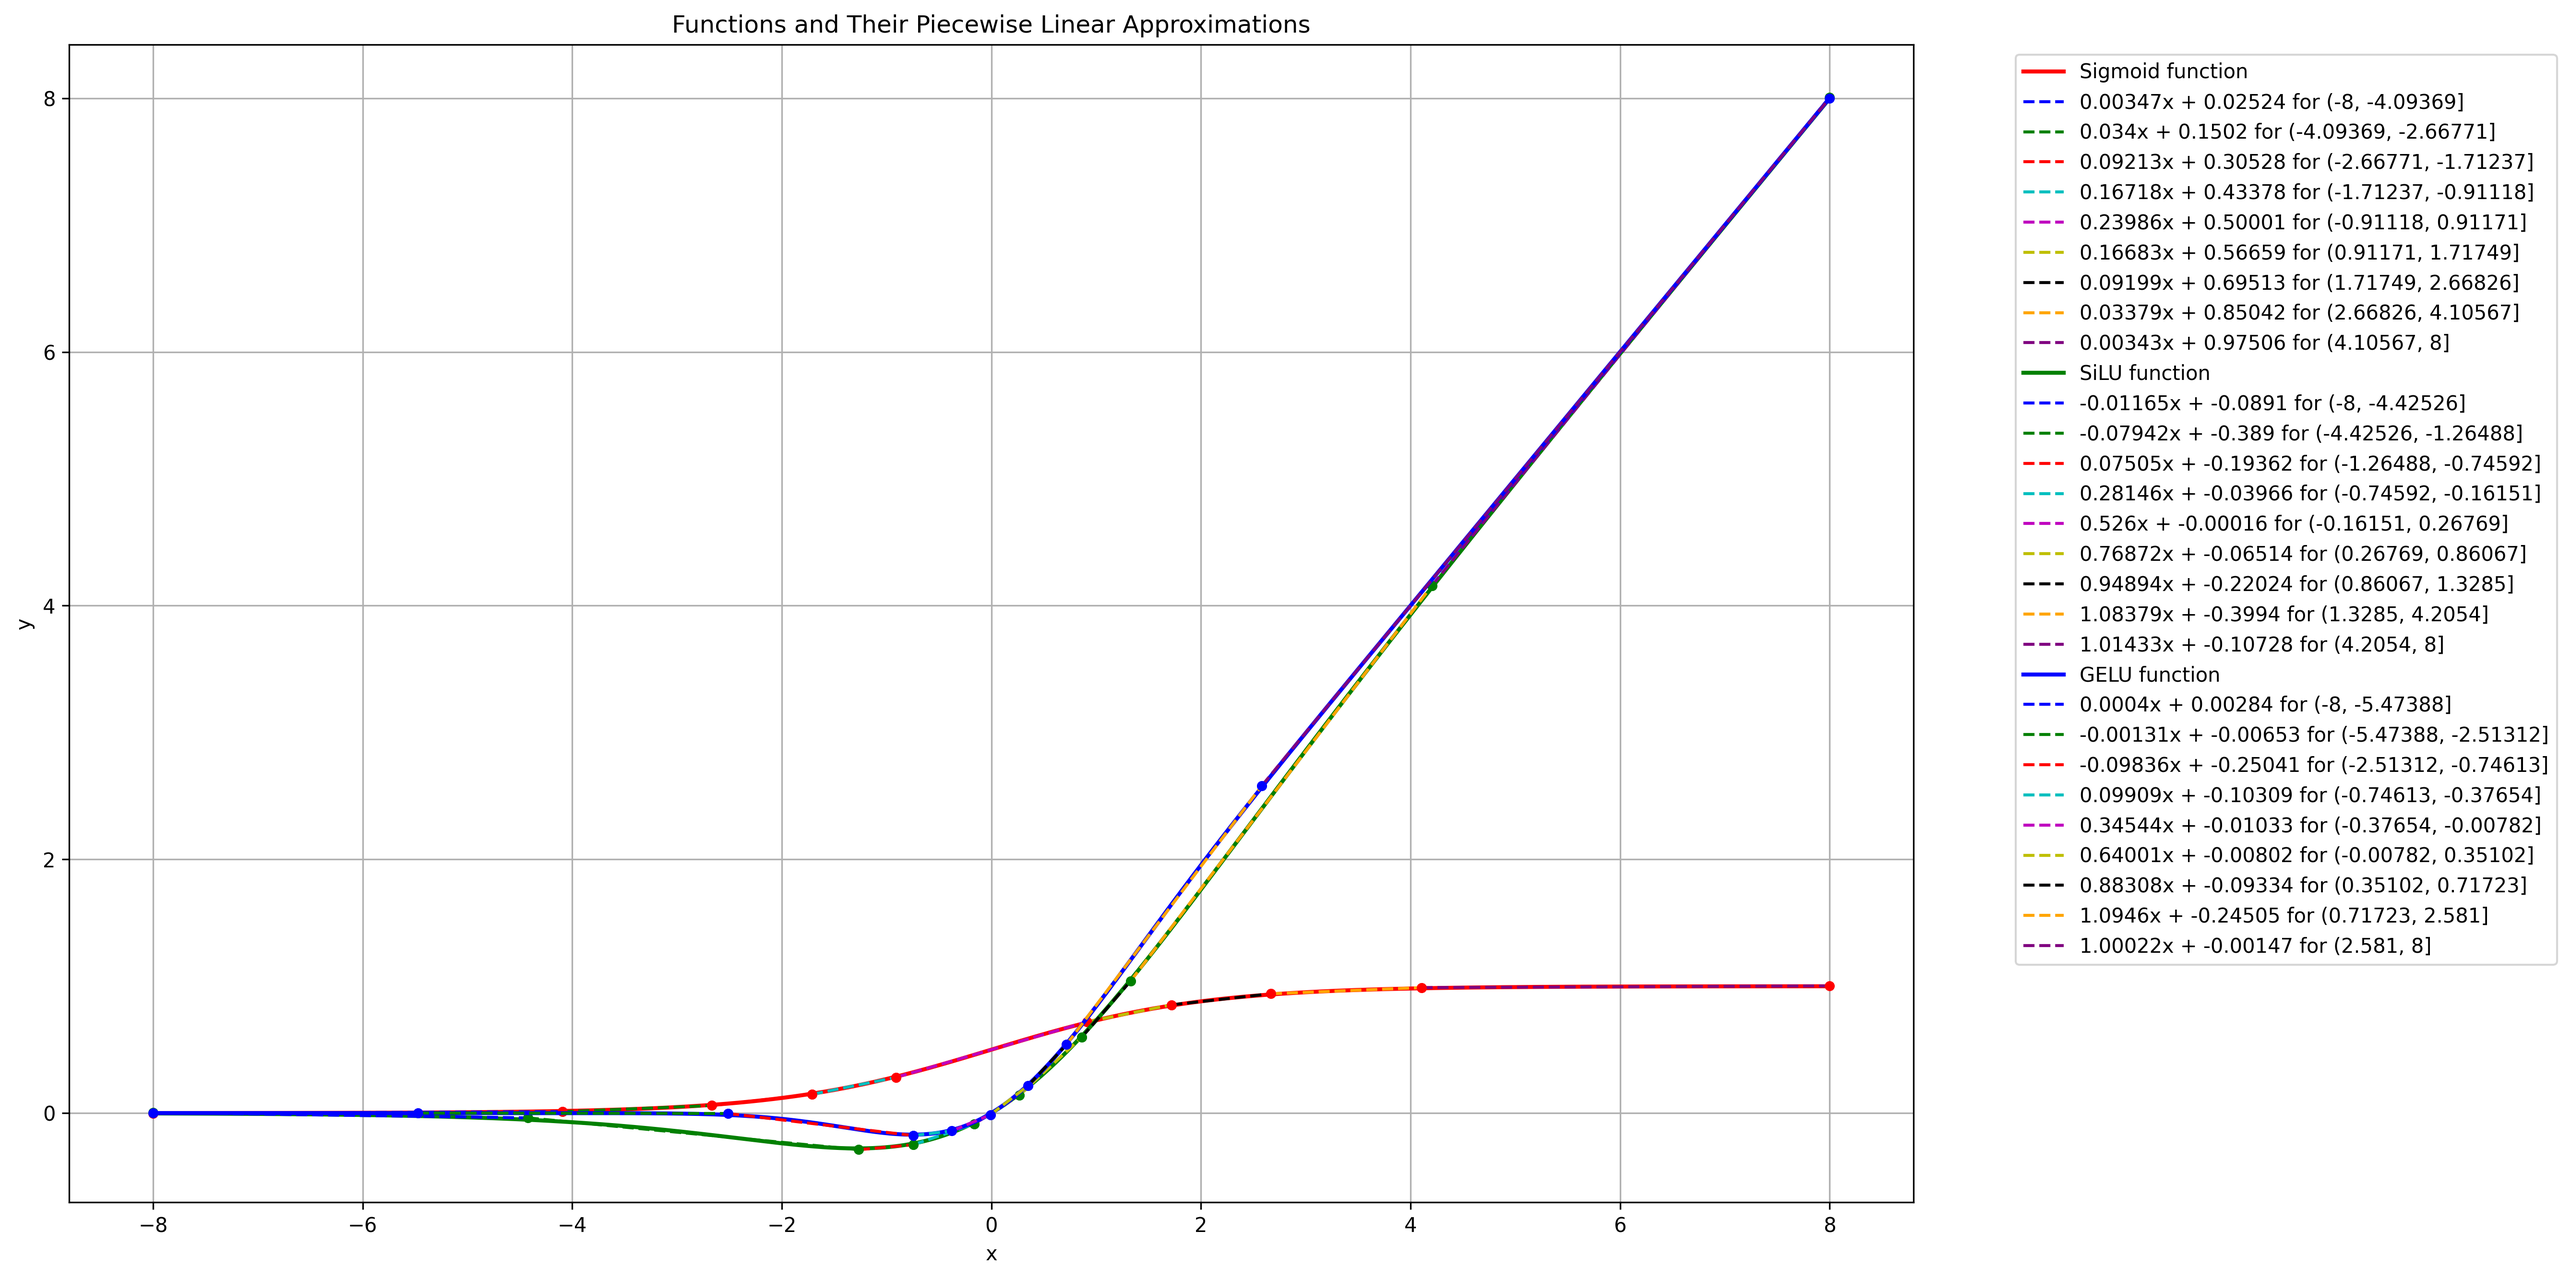
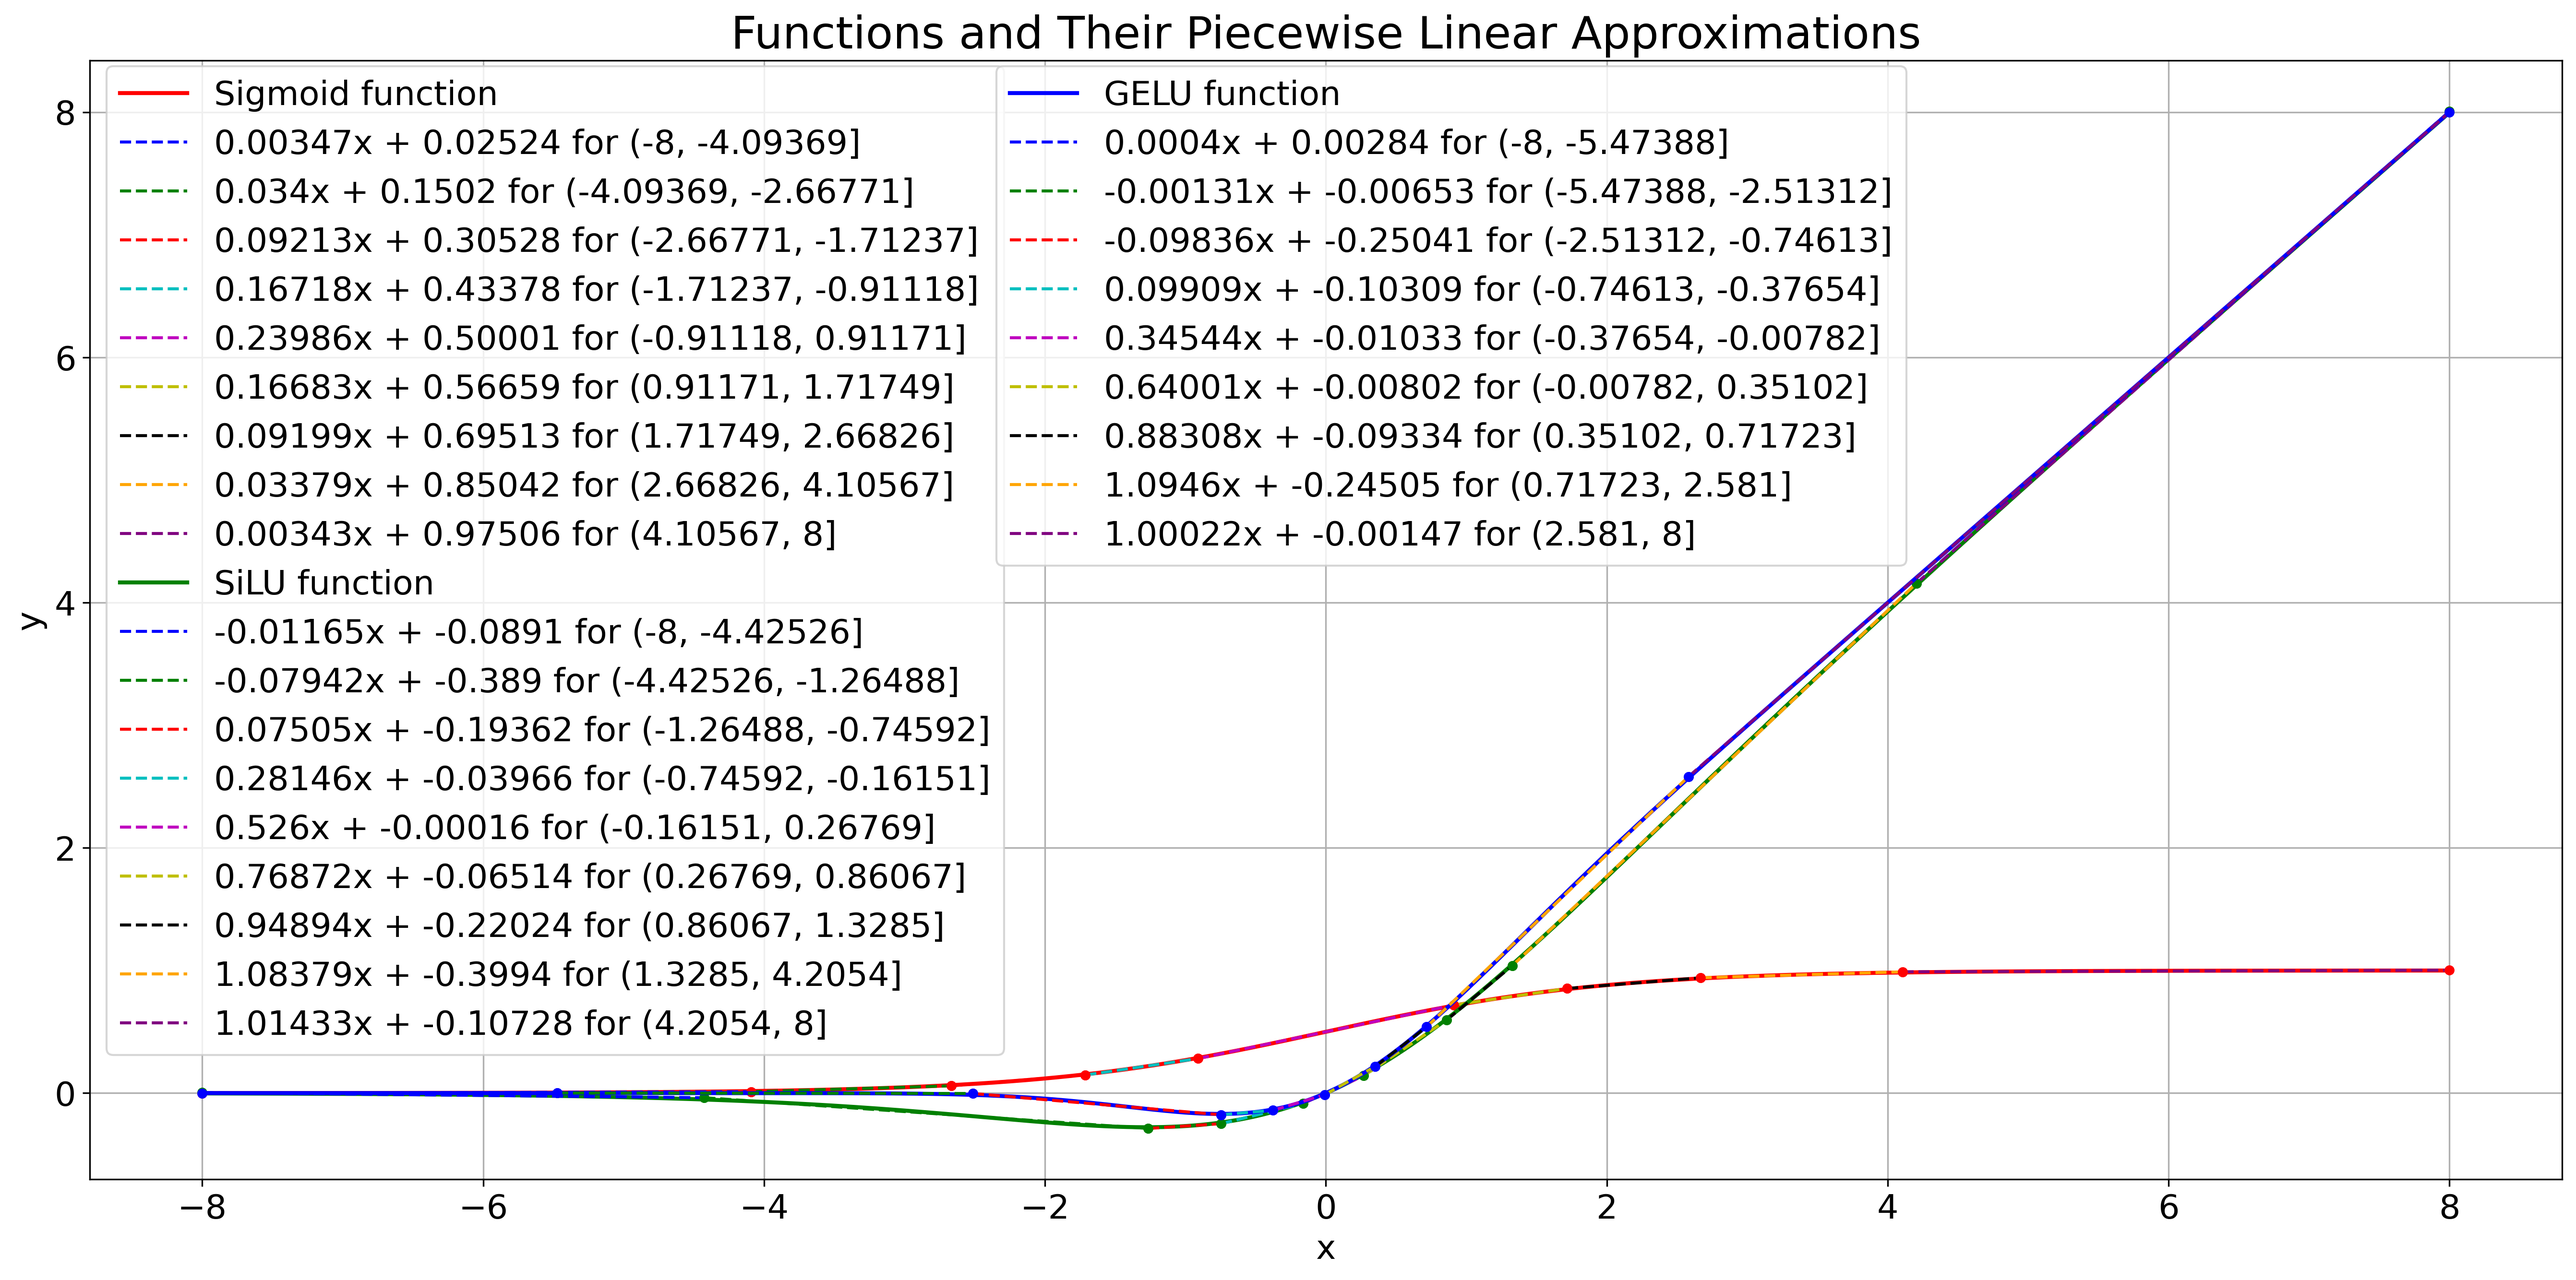
Modified approximation_visualization.py to change the result of Combined_approximation_visualization.png . This makes all text much larger and easier to read. Implemented on suggestion of mentor Kwon Eun Ji.

diff --git a/approximation_visualization.py b/approximation_visualization.py
@@ -91,12 +91,33 @@ ranges = [ranges_sigmoid, ranges_silu, ranges_gelu]
 a_lists = [a_sigmoid, a_silu, a_gelu]
 b_lists = [b_sigmoid, b_silu, b_gelu]
 
+# Make the texts in plot larger to be more readable
+# Mapping from relative size to absolute size in points
+size_mapping = {
+    'xx-small': 8,
+    'x-small': 10,
+    'small': 12,
+    'medium': 14,
+    'large': 16,
+    'x-large': 20,
+    'xx-large': 24,
+}
+
+# Convert the sizes to points, double them, and set them
+plt.rcParams['axes.titlesize'] = 1.4 * size_mapping[plt.rcParams['axes.titlesize']]
+plt.rcParams['axes.labelsize'] = 1.2 * size_mapping[plt.rcParams['axes.labelsize']]
+plt.rcParams['legend.fontsize'] = 1.2 * size_mapping[plt.rcParams['legend.fontsize']]
+plt.rcParams['xtick.labelsize'] = 1.2 * size_mapping[plt.rcParams['xtick.labelsize']]
+plt.rcParams['ytick.labelsize'] = 1.2 * size_mapping[plt.rcParams['ytick.labelsize']]
+
+
 # Create the figure and axes
 
 fig, ax = plt.subplots(figsize=(18, 9))
 
 # Generate the data and plot the functions and their approximations
 foo = 0
+lines = []
 for function, function_name, range_list, a_list, b_list in zip(functions, function_names, ranges, a_lists, b_lists):
     # Plot function and its approximation with point marks for separating segments and coordinates
     range_minimum = range_list[0][0]
@@ -106,26 +127,43 @@ for function, function_name, range_list, a_list, b_list in zip(functions, functi
     y = function(x)
     y_approx = [piecewise_linear_approx(i, range_list, a_list, b_list) for i in x]
 
-    ax.plot(x, y, label=f"{function_name} function", linewidth=2, color=function_colors[foo])
+    # comma to unpack tuple
+    line, = ax.plot(x, y, label=f"{function_name} function", linewidth=2, color=function_colors[foo])
+    lines.append(line)
 
     for i in range(len(range_list)):
         x_piecewise = np.linspace(range_list[i][0], range_list[i][1], 500)
         y_piecewise = [piecewise_linear_approx(j, [range_list[i]], [a_list[i]], [b_list[i]]) for j in x_piecewise]
 
-        ax.plot(x_piecewise, y_piecewise, label=f"{a_list[i]}x + {b_list[i]} for ({range_list[i][0]}, {range_list[i][1]}]", linestyle='dashed',
+        # comma to unpack tuple
+        line, = ax.plot(x_piecewise, y_piecewise, label=f"{a_list[i]}x + {b_list[i]} for ({range_list[i][0]}, {range_list[i][1]}]", linestyle='dashed',
                 color=colors[i])
+        lines.append(line)
         ax.plot(range_list[i][0], piecewise_linear_approx(range_list[i][0], [range_list[i]], [a_list[i]], [b_list[i]]),
                 marker_colors[foo], markersize=4)  # lower bound
         ax.plot(range_list[i][1], piecewise_linear_approx(range_list[i][1], [range_list[i]], [a_list[i]], [b_list[i]]),
                 marker_colors[foo], markersize=4)  # upper bound
+
     foo = foo + 1
 
 # Set the title and labels, show the legend, and display the plot
 
+print(len(lines))
+# Separate the entries into two lists: first 20 entries and remaining 10 entries
+lines1, lines2 = lines[:20], lines[20:]
+labels1, labels2 = [line.get_label() for line in lines1], [line.get_label() for line in lines2]
+# First legend with sigmoid and SiLU for first column
+first_legend = ax.legend(lines1, labels1, ncol=1, loc='upper left', bbox_to_anchor=(0.0, 1.01))
+# Second legend with GELU for second column
+second_legend = ax.legend(lines2, labels2, ncol=1, loc='upper left', bbox_to_anchor=(0.36, 1.01))
+
+# Add the first legend manually to the current Axes
+ax.add_artist(first_legend)
+
 ax.set_title("Functions and Their Piecewise Linear Approximations")
 ax.set_xlabel("x")
 ax.set_ylabel("y")
-ax.legend(loc='upper left', bbox_to_anchor=(1.05, 1))
+# ax.legend(loc='upper left', ncol=2)
 ax.grid(True)
 plt.tight_layout()
 plt.show()
